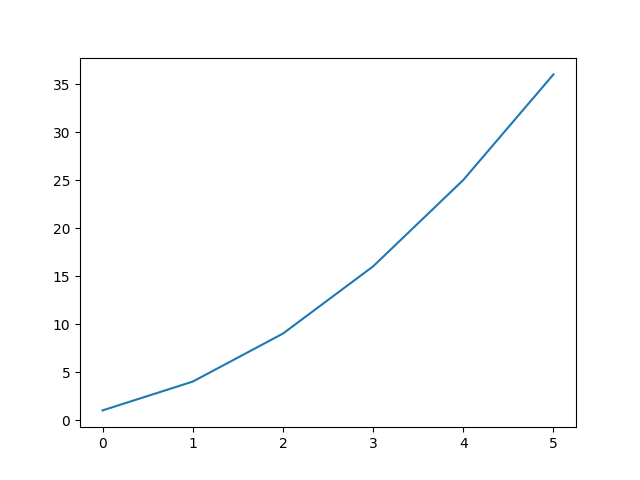
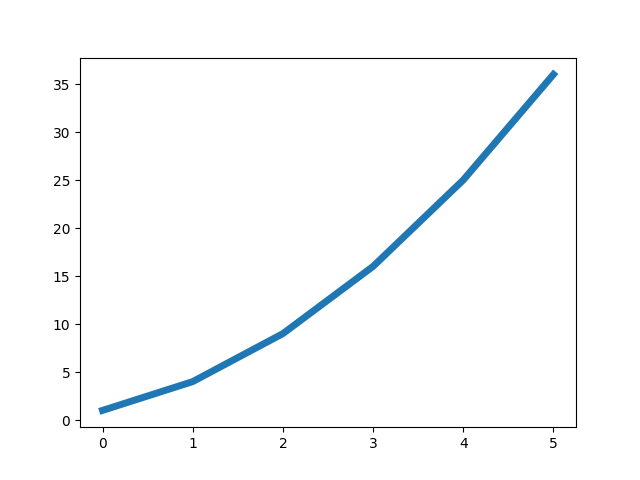
increased the linewidth for readability

diff --git a/simplegraph/mpl_squares.py b/simplegraph/mpl_squares.py
@@ -2,6 +2,6 @@ import matplotlib.pyplot as plt
 
 squares =[1,4,9,16,25, 36]
 fig, ax = plt.subplots()
-ax.plot(squares)
+ax.plot(squares, linewidth=5)
 plt.savefig('output.png')
 plt.show()
